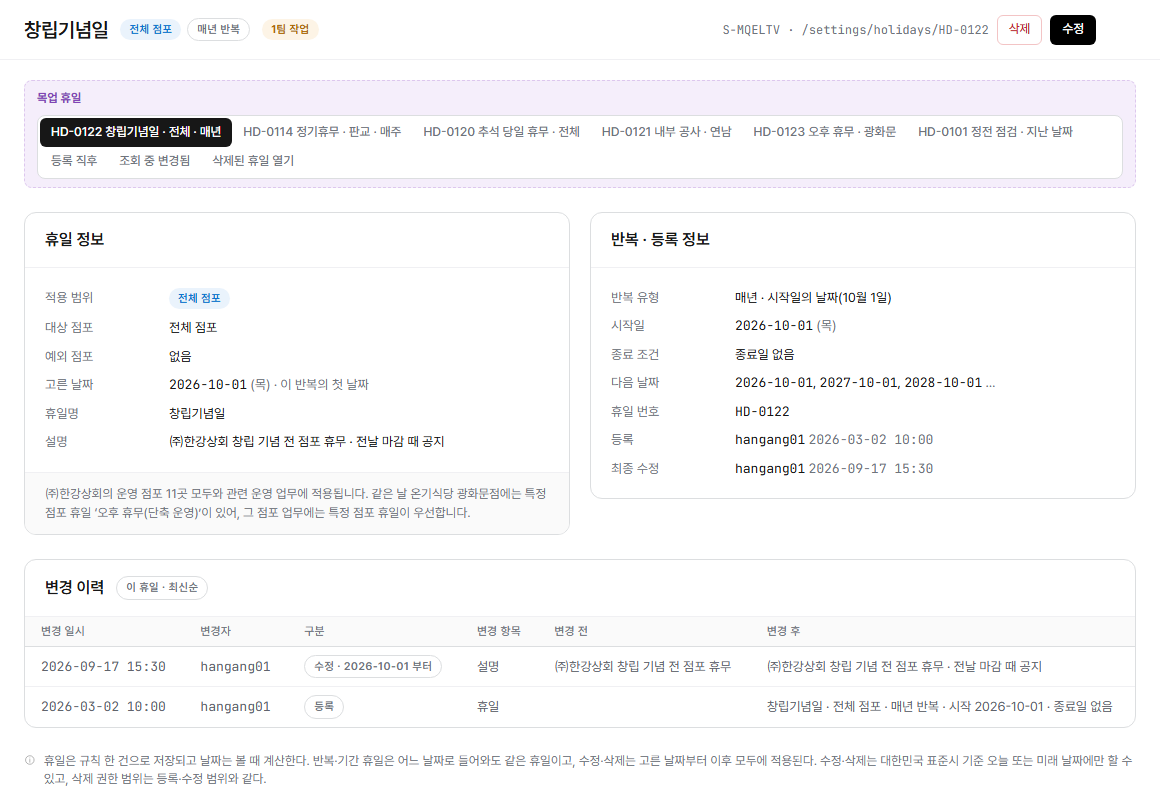
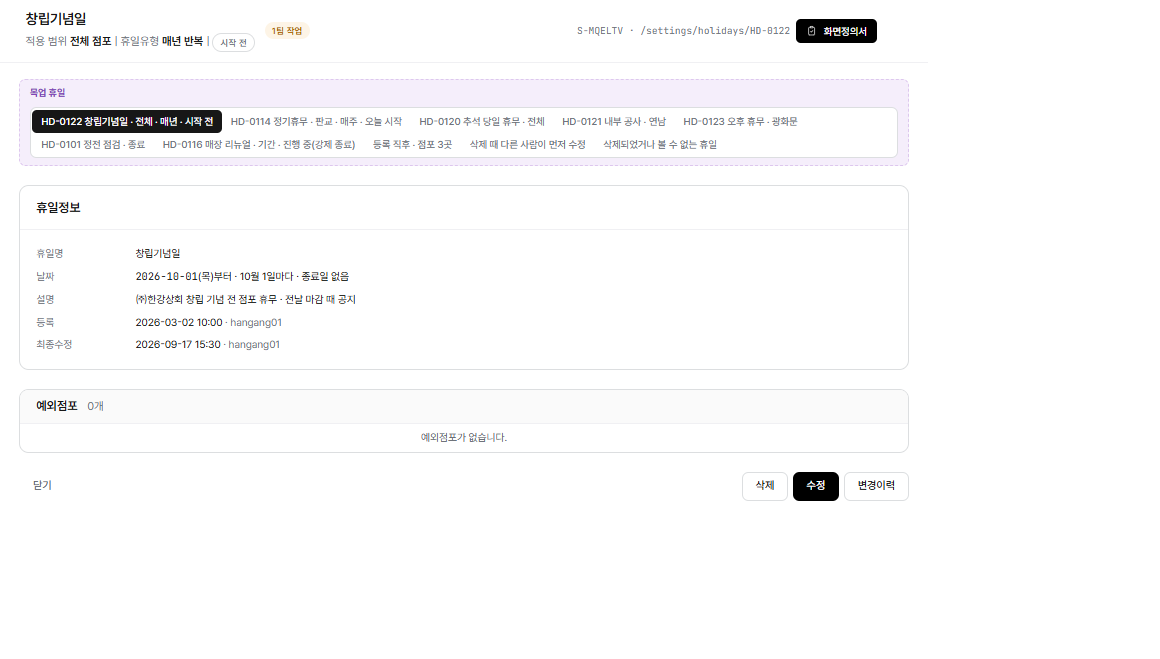
docs: BP 휴일 화면정의서 그림을 다시 찍고 번호 위치를 맞춤

diff --git a/docs/mockup/config/config-holidays-new.screen-def.html b/docs/mockup/config/config-holidays-new.screen-def.html
@@ -49,17 +49,17 @@
   "screenPath": "BP 환경설정 > BP 휴일 관리 > 등록",
   "purpose": "# 화면 목적 및 기능 — 페이지 제목 줄의 [등록]으로 목록 위에 여는 슬라이드 패널. 휴일정보(휴일명 → 날짜(하루/기간/반복 — 반복이면 날짜 바로 아래 회색 상자에서 반복 유형·종료 조건) → 설명)와 적용 대상(적용 범위 → 대상 또는 예외 점포)을 받아 BP 휴일을 규칙 한 건으로 등록한다. 기간과 반복은 함께 쓰지 않고, 휴일은 종일만 지원하며 지난 날짜는 등록할 수 없다 (코드대로, 2026-10-30)",
   "items": [
-    { "x": 1019, "y": 29, "title": "닫기", "desc": "정의: 맨 아래 가운데 [닫기] [저장](위 구분선 없음) — 저장하지 않고 등록 패널을 닫는다 (코드대로, 2026-10-30)" },
-    { "x": 1073, "y": 29, "title": "저장", "desc": "정의: 칸 검사 → 겹침 확인 → 저장. 저장하면 패널을 닫고 토스트 '저장되었습니다.' 뒤 새 휴일의 상세(시작일 기준)를 연다\n실패하면 휴일은 만들어지지 않고 위 실패 띠(api 문장 + '입력한 내용은 그대로 두었습니다.'), 입력 내용은 화면에 남는다\n같은 점포에 날짜가 겹치는 휴일이 이미 있어도 등록은 막지 않고 확인창 '같은 날 등록된 휴일이 있습니다.' · '저장하면 겹치는 휴일이 모두 적용됩니다. 저장하시겠습니까?' + 점포 · 날짜(2026-10-30(금)) · 이미 등록된 휴일 표(앞 10일, 나머지는 '외 N일'), 확인 버튼 [저장]\n접근 범위 밖 점포를 고르고 저장하면 api 가 거절해 같은 실패 띠로 보인다 — 'api 문장(예: 맡지 않은 점포는 다룰 수 없습니다.)' + '입력한 내용은 그대로 두었습니다.', 칸 아래 문구는 없다\n칸 오류는 칸 아래 문구로만 알린다 — 위쪽 요약 띠는 없다(2026-10-30 재영)\n전체 점포 휴일에서 예외 점포로 모든 점포를 빼도 저장된다(막지 않음, 안내 없음). 기간 길이 · 날짜 수에 상한은 없다\n탈퇴 · 미사용 BP 에서는 위에 'BP가 탈퇴 또는 미사용 상태로, 휴일을 등록할 수 없습니다.' 띠를 두고 [저장]을 막는다 (코드대로, 2026-10-30)" },
-    { "x": 309, "y": 383, "title": "적용 범위 · 전체 점포", "desc": "정의: 선택 상자(칸 이름 없이 '적용 대상' 묶음 안). BP의 모든 점포에 적용, 예외 점포를 뺄 수 있음\n전체 점포 휴일과 예외 점포는 BP 마스터·전체 점포 범위 BP 관리자·플랫폼 사용자만 다룬다 — 가맹 마스터·가맹 관리자에게는 '전체 점포' 선택지가 없고 칸이 막혀 일부 점포로 고정. 일부 점포 BP 관리자에게는 선택지가 보이지만 저장하면 api 가 막는다(로그인 정보에 관리 범위가 없다) (코드대로, 2026-10-30)" },
-    { "x": 852, "y": 383, "title": "적용 범위 · 일부 점포", "desc": "정의: 고른 점포에만 적용, 여러 곳을 한 휴일로 묶을 수 있음(전체 점포를 고를 수 없는 사람의 시작값)\n선택지는 등록하는 사람의 접근 범위 안 운영 점포뿐 (코드대로, 2026-10-30)" },
-    { "x": 594, "y": 581, "title": "관리할 점포 찾기", "desc": "정의: 필수, 점포명 또는 점포코드로 검색해 추가하는 입력란 '점포 찾기'(낭독 이름 '관리할 점포 찾기', 예외는 '예외로 뺄 점포 찾기') + [일괄 검색](점포 일괄 검색 창, 예외는 왼쪽 '적용 점포' · 오른쪽 '예외점포'). 칸 이름 '대상점포 *' 옆에 ' · 휴일을 적용할 점포를 선택해 주세요.'(전체 점포면 '예외점포' · ' · 휴일을 적용하지 않을 점포를 선택해 주세요.')\n대상 점포를 한 곳도 안 고르면 \"대상점포를 1개 이상 선택해 주세요.\" (코드대로, 2026-10-30)" },
-    { "x": 594, "y": 665, "title": "선택한 점포 목록", "desc": "정의: 고른 대상(또는 예외) 점포 칩과 개수, [전체 제거] 버튼\n비어 있으면 대상은 '선택된 점포가 없습니다. / 점포찾기에서 점포를 검색하여 추가해 주세요.', 예외는 '선택된 예외점포가 없습니다. / 모든 점포에 휴일이 적용됩니다.'\n고른 점포는 모두 이 휴일 한 건에 묶인다 (코드대로, 2026-10-30)" },
-    { "x": 100, "y": 902, "title": "날짜 방식", "desc": "정의: 칸 이름 '날짜 *' 아래 라디오 하루 · 기간 · 반복(기본값 하루). 기간이면 시작일 ~ 종료일 두 칸\n반복을 고를 때만 날짜 바로 아래(설명 위) 회색 상자에 반복 칸이 열린다 — 기간과 반복은 함께 쓰지 않음\n기간 일수 · 첫 날짜 · 다음 날짜 · 마지막 날짜 같은 미리보기 띠는 없다(2026-10-30 재영) (코드대로, 2026-10-30)" },
-    { "x": 135, "y": 948, "title": "날짜 값", "desc": "정의: 필수, 오늘 또는 그 뒤 날짜만 가능(대한민국 표준시 기준). 처음 값은 캘린더에서 고른 날짜(오늘 이후일 때), 아니면 오늘\n지난 날짜를 넣고 저장하면 \"오늘 이후 날짜를 선택해 주세요.\"(기간의 종료일이 빠르면 \"종료일이 시작일보다 빠릅니다.\"). 날짜는 2100-12-31 까지 (코드대로, 2026-10-30)" },
-    { "x": 852, "y": 905, "title": "휴일명", "desc": "정의: 필수, 최대 30자\n캘린더 오른쪽 그날 줄의 첫 줄에 휴일명으로 표시된다 (코드대로, 2026-10-30)" },
-    { "x": 580, "y": 1057, "title": "설명", "desc": "정의: 선택 입력, 최대 500자. 휴일명과 같은 한 줄 높이 칸(앱 2026-10-30)" },
-    { "x": 216, "y": 1297, "title": "반복유형", "desc": "정의: 매일 · 매주 · 매월 · 매년 중 선택(처음 값 매주), 공통코드(휴일 반복 유형)에서 읽어 채움\n반복 기준은 시작일의 요일·날짜, 종료 조건은 종료일 없음·특정 날짜까지·지정 횟수만큼 중 하나\n칸 이름 옆에 짙은 회색 꼬리표로 기준을 보인다 — '매주 수요일마다 반복'(매일은 없음). 지정 횟수 칸은 100px\n그 날짜가 없는 달·해는 '31일이 없는 달에는 휴일이 적용되지 않으며, 반복 횟수에도 포함되지 않습니다.'(매년 2월 29일은 '2월 29일이 없는 해에는 …') 한 문장으로 알리며, 지정 횟수는 실제로 생긴 날만 센다\n만들어지는 날짜 수에 상한은 없다 (코드대로, 2026-10-30)" }
+    { "x": 75, "y": 238, "title": "휴일명", "desc": "정의: 필수, 최대 30자\n캘린더 오른쪽 그날 줄의 첫 줄에 휴일명으로 표시된다 (코드대로, 2026-10-30)" },
+    { "x": 90, "y": 336, "title": "날짜 방식", "desc": "정의: 칸 이름 '날짜 *' 아래 라디오 하루 · 기간 · 반복(기본값 하루). 기간이면 시작일 ~ 종료일 두 칸\n반복을 고를 때만 날짜 바로 아래(설명 위) 회색 상자에 반복 칸이 열린다 — 기간과 반복은 함께 쓰지 않음\n기간 일수 · 첫 날짜 · 다음 날짜 · 마지막 날짜 같은 미리보기 띠는 없다(2026-10-30 재영) (코드대로, 2026-10-30)" },
+    { "x": 150, "y": 336, "title": "반복유형", "desc": "정의: 매일 · 매주 · 매월 · 매년 중 선택(처음 값 매주), 공통코드(휴일 반복 유형)에서 읽어 채움\n반복 기준은 시작일의 요일·날짜, 종료 조건은 종료일 없음·특정 날짜까지·지정 횟수만큼 중 하나\n칸 이름 옆에 짙은 회색 꼬리표로 기준을 보인다 — '매주 수요일마다 반복'(매일은 없음). 지정 횟수 칸은 100px\n그 날짜가 없는 달·해는 '31일이 없는 달에는 휴일이 적용되지 않으며, 반복 횟수에도 포함되지 않습니다.'(매년 2월 29일은 '2월 29일이 없는 해에는 …') 한 문장으로 알리며, 지정 횟수는 실제로 생긴 날만 센다\n만들어지는 날짜 수에 상한은 없다 (코드대로, 2026-10-30)" },
+    { "x": 110, "y": 373, "title": "날짜 값", "desc": "정의: 필수, 오늘 또는 그 뒤 날짜만 가능(대한민국 표준시 기준). 처음 값은 캘린더에서 고른 날짜(오늘 이후일 때), 아니면 오늘\n지난 날짜를 넣고 저장하면 \"오늘 이후 날짜를 선택해 주세요.\"(기간의 종료일이 빠르면 \"종료일이 시작일보다 빠릅니다.\"). 날짜는 2100-12-31 까지 (코드대로, 2026-10-30)" },
+    { "x": 70, "y": 412, "title": "설명", "desc": "정의: 선택 입력, 최대 500자. 휴일명과 같은 한 줄 높이 칸(앱 2026-10-30)" },
+    { "x": 90, "y": 571, "title": "적용 범위 · 전체 점포", "desc": "정의: 선택 상자(칸 이름 없이 '적용 대상' 묶음 안). BP의 모든 점포에 적용, 예외 점포를 뺄 수 있음\n전체 점포 휴일과 예외 점포는 BP 마스터·전체 점포 범위 BP 관리자·플랫폼 사용자만 다룬다 — 가맹 마스터·가맹 관리자에게는 '전체 점포' 선택지가 없고 칸이 막혀 일부 점포로 고정. 일부 점포 BP 관리자에게는 선택지가 보이지만 저장하면 api 가 막는다(로그인 정보에 관리 범위가 없다) (코드대로, 2026-10-30)" },
+    { "x": 200, "y": 571, "title": "적용 범위 · 일부 점포", "desc": "정의: 고른 점포에만 적용, 여러 곳을 한 휴일로 묶을 수 있음(전체 점포를 고를 수 없는 사람의 시작값)\n선택지는 등록하는 사람의 접근 범위 안 운영 점포뿐 (코드대로, 2026-10-30)" },
+    { "x": 90, "y": 635, "title": "관리할 점포 찾기", "desc": "정의: 필수, 점포명 또는 점포코드로 검색해 추가하는 입력란 '점포 찾기'(낭독 이름 '관리할 점포 찾기', 예외는 '예외로 뺄 점포 찾기') + [일괄 검색](점포 일괄 검색 창, 예외는 왼쪽 '적용 점포' · 오른쪽 '예외점포'). 칸 이름 '대상점포 *' 옆에 ' · 휴일을 적용할 점포를 선택해 주세요.'(전체 점포면 '예외점포' · ' · 휴일을 적용하지 않을 점포를 선택해 주세요.')\n대상 점포를 한 곳도 안 고르면 \"대상점포를 1개 이상 선택해 주세요.\" (코드대로, 2026-10-30)" },
+    { "x": 95, "y": 718, "title": "선택한 점포 목록", "desc": "정의: 고른 대상(또는 예외) 점포 칩과 개수, [전체 제거] 버튼\n비어 있으면 대상은 '선택된 점포가 없습니다. / 점포찾기에서 점포를 검색하여 추가해 주세요.', 예외는 '선택된 예외점포가 없습니다. / 모든 점포에 휴일이 적용됩니다.'\n고른 점포는 모두 이 휴일 한 건에 묶인다 (코드대로, 2026-10-30)" },
+    { "x": 438, "y": 967, "title": "닫기", "desc": "정의: 맨 아래 가운데 [닫기] [저장](위 구분선 없음) — 저장하지 않고 등록 패널을 닫는다 (코드대로, 2026-10-30)" },
+    { "x": 489, "y": 967, "title": "저장", "desc": "정의: 칸 검사 → 겹침 확인 → 저장. 저장하면 패널을 닫고 토스트 '저장되었습니다.' 뒤 새 휴일의 상세(시작일 기준)를 연다\n실패하면 휴일은 만들어지지 않고 위 실패 띠(api 문장 + '입력한 내용은 그대로 두었습니다.'), 입력 내용은 화면에 남는다\n같은 점포에 날짜가 겹치는 휴일이 이미 있어도 등록은 막지 않고 확인창 '같은 날 등록된 휴일이 있습니다.' · '저장하면 겹치는 휴일이 모두 적용됩니다. 저장하시겠습니까?' + 점포 · 날짜(2026-10-30(금)) · 이미 등록된 휴일 표(앞 10일, 나머지는 '외 N일'), 확인 버튼 [저장]\n접근 범위 밖 점포를 고르고 저장하면 api 가 거절해 같은 실패 띠로 보인다 — 'api 문장(예: 맡지 않은 점포는 다룰 수 없습니다.)' + '입력한 내용은 그대로 두었습니다.', 칸 아래 문구는 없다\n칸 오류는 칸 아래 문구로만 알린다 — 위쪽 요약 띠는 없다(2026-10-30 재영)\n전체 점포 휴일에서 예외 점포로 모든 점포를 빼도 저장된다(막지 않음, 안내 없음). 기간 길이 · 날짜 수에 상한은 없다\n탈퇴 · 미사용 BP 에서는 위에 'BP가 탈퇴 또는 미사용 상태로, 휴일을 등록할 수 없습니다.' 띠를 두고 [저장]을 막는다 (코드대로, 2026-10-30)" }
   ]
 }
 </script>

diff --git a/docs/mockup/config/config-holidays-edit.screen-def.html b/docs/mockup/config/config-holidays-edit.screen-def.html
@@ -49,18 +49,18 @@
   "screenPath": "BP 환경설정 > BP 휴일 관리 > 수정",
   "purpose": "# 화면 목적 및 기능 — 상세의 [수정]으로 상세 위에 겹쳐 여는 슬라이드 패널. 휴일정보(휴일명 · 날짜 · 반복 · 설명)와 적용 대상(적용 범위 · 대상 또는 예외 점포)을 고친다. 휴일을 나누지 않고 그 휴일을 고치며, 상태로 고칠 수 있는 칸이 갈린다 — 시작 전은 모든 칸, 진행 중은 휴일명 · 설명 · 점포만, 맡지 않은 점포가 묶인 휴일은 점포만, 끝난 휴일은 고칠 수 없다 (코드대로, 2026-10-30)",
   "items": [
-    { "x": 1019, "y": 29, "title": "닫기", "desc": "정의: 맨 아래 가운데 [닫기] [저장](위 구분선 없음) — 저장하지 않고 수정 패널을 닫아 상세로 돌아간다 (코드대로, 2026-10-30)" },
-    { "x": 1073, "y": 29, "title": "저장", "desc": "정의: 칸 검사 → 겹침 확인 → 저장. 같은 점포 · 같은 날 휴일이 있으면 확인창 '같은 날 등록된 휴일이 있습니다.'를 띄우고 [저장]하면 그대로 저장한다(막지 않음)\n휴일을 나누지 않고 그 휴일을 고친다. 지난 날짜는 바뀌지 않는다. 진행 중 휴일에서 점포를 더하면 오늘부터, 빼면 어제까지다\n저장하면 패널을 닫고 토스트 '수정되었습니다.'\n다른 사람이 먼저 고쳤으면(409) 토스트 '다른 사용자가 먼저 수정했습니다. 최신 정보를 불러왔으니 다시 고쳐 저장해 주세요.'와 함께 최신 값으로 다시 채우고 위에 실패 띠(api 문장)를 둔다 — [최신 정보 불러오기] 버튼은 없다\n그 밖의 실패는 위 실패 띠(api 문장 + '입력한 내용은 그대로 두었습니다.')\n접근 범위 밖 점포를 고르고 저장하면 api 가 거절해 같은 실패 띠로 보인다 — 'api 문장(예: 맡지 않은 점포는 다룰 수 없습니다.)' + '입력한 내용은 그대로 두었습니다.', 칸 아래 문구는 없다\n칸 오류는 칸 아래 문구로만 알린다 — 위쪽 요약 띠는 없다(2026-10-30 재영). 예외점포로 모든 점포를 빼도 저장된다(막지 않음, 안내 없음) (코드대로, 2026-10-30)" },
-    { "x": 309, "y": 383, "title": "적용 범위 · 전체 점포", "desc": "정의: 선택 상자(칸 이름 없이 '적용 대상' 묶음 안). BP의 모든 점포에 적용, 예외 점포를 뺄 수 있음\n전체 점포는 BP 마스터·전체 점포 범위 BP 관리자·플랫폼 사용자만 — 가맹 마스터·가맹 관리자에게는 '전체 점포' 선택지가 없고 칸이 막힌다. 일부 점포 BP 관리자에게는 선택지가 보이지만 저장하면 api 가 막는다(로그인 정보에 관리 범위가 없다)\n진행 중 휴일 · 맡지 않은 점포가 묶인 휴일은 적용 범위를 바꿀 수 없다(칸 막힘) (코드대로, 2026-10-30)" },
-    { "x": 852, "y": 383, "title": "적용 범위 · 일부 점포", "desc": "정의: 고른 점포에만 적용, 여러 곳을 한 휴일로 묶을 수 있음\n칸 이름 '대상점포 *' 옆에 ' · 휴일을 적용할 점포를 선택해 주세요.', 선택지는 수정하는 사람의 접근 범위 안 운영 점포뿐 (코드대로, 2026-10-30)" },
-    { "x": 594, "y": 581, "title": "예외점포 찾기", "desc": "정의: 전체 점포 적용 시, 뺄 점포를 검색해 추가하는 입력란 '점포 찾기'(낭독 이름 '예외로 뺄 점포 찾기') + [일괄 검색](왼쪽 '적용 점포' · 오른쪽 '예외점포'), 접근 범위 안 점포만. 칸 이름 '예외점포' 옆에 ' · 휴일을 적용하지 않을 점포를 선택해 주세요.' (코드대로, 2026-10-30)" },
-    { "x": 594, "y": 678, "title": "예외점포 목록", "desc": "정의: 고른 예외 점포 칩과 개수, [전체 제거] 버튼. 비어 있으면 '선택된 예외점포가 없습니다. / 모든 점포에 휴일이 적용됩니다.'\n고른 점포는 이 휴일의 모든 날짜에서 빠지고, 비워 두면 모든 점포에 적용 (코드대로, 2026-10-30)" },
-    { "x": 135, "y": 933, "title": "날짜", "desc": "정의: 필수. 라디오 하루 · 기간 · 반복 + 날짜 칸(기간이면 시작일 ~ 종료일), 오늘 이후만\n진행 중 휴일은 유형 · 날짜 · 반복 · 적용 범위 칸이 막혀 읽은 값 그대로 보내고 휴일명 · 설명 · 점포만 고친다\n맡지 않은 점포가 함께 묶인 휴일(일부 점포만 맡은 사람)은 점포만 고친다 — 휴일명 · 설명도 막히고, 점포 칸 아래 '맡지 않은 점포 N개(…)는 그대로 둡니다.' (코드대로, 2026-10-30)" },
-    { "x": 852, "y": 933, "title": "휴일명", "desc": "정의: 필수 입력, 최대 30자" },
-    { "x": 580, "y": 1087, "title": "설명", "desc": "정의: 선택 입력, 최대 500자. 휴일명과 같은 한 줄 높이 칸(앱 2026-10-30)" },
-    { "x": 216, "y": 1299, "title": "반복유형", "desc": "정의: 반복을 고를 때만 날짜 바로 아래 회색 상자에 열린다 — 매일 · 매주 · 매월 · 매년 중 선택\n칸 이름 옆에 짙은 회색 꼬리표로 기준을 보인다 — '매년 10월 1일마다 반복' · '매주 월요일마다 반복'(매일은 없음)\n기간과 반복은 함께 쓰지 않는다 (코드대로, 2026-10-30)" },
-    { "x": 150, "y": 1382, "title": "종료조건", "desc": "정의: 종료일 없음 · 특정 날짜까지 · 지정 횟수만큼 중 선택(지정 횟수 칸은 100px)" },
-    { "x": 40, "y": 40, "title": "대상점포", "desc": "정의: 일부 점포 적용 시 고른 대상 점포 칩과 개수, [전체 제거]. 비어 있으면 '선택된 점포가 없습니다. / 점포찾기에서 점포를 검색하여 추가해 주세요.'\n한 곳도 안 고르고 저장하면 '대상점포를 1개 이상 선택해 주세요.' (코드대로, 2026-10-30)" }
+    { "x": 75, "y": 238, "title": "휴일명", "desc": "정의: 필수 입력, 최대 30자" },
+    { "x": 60, "y": 308, "title": "날짜", "desc": "정의: 필수. 라디오 하루 · 기간 · 반복 + 날짜 칸(기간이면 시작일 ~ 종료일), 오늘 이후만\n진행 중 휴일은 유형 · 날짜 · 반복 · 적용 범위 칸이 막혀 읽은 값 그대로 보내고 휴일명 · 설명 · 점포만 고친다\n맡지 않은 점포가 함께 묶인 휴일(일부 점포만 맡은 사람)은 점포만 고친다 — 휴일명 · 설명도 막히고, 점포 칸 아래 '맡지 않은 점포 N개(…)는 그대로 둡니다.' (코드대로, 2026-10-30)" },
+    { "x": 100, "y": 424, "title": "반복유형", "desc": "정의: 반복을 고를 때만 날짜 바로 아래 회색 상자에 열린다 — 매일 · 매주 · 매월 · 매년 중 선택\n칸 이름 옆에 짙은 회색 꼬리표로 기준을 보인다 — '매년 10월 1일마다 반복' · '매주 월요일마다 반복'(매일은 없음)\n기간과 반복은 함께 쓰지 않는다 (코드대로, 2026-10-30)" },
+    { "x": 100, "y": 489, "title": "종료조건", "desc": "정의: 종료일 없음 · 특정 날짜까지 · 지정 횟수만큼 중 선택(지정 횟수 칸은 100px)" },
+    { "x": 70, "y": 565, "title": "설명", "desc": "정의: 선택 입력, 최대 500자. 휴일명과 같은 한 줄 높이 칸(앱 2026-10-30)" },
+    { "x": 90, "y": 724, "title": "적용 범위 · 전체 점포", "desc": "정의: 선택 상자(칸 이름 없이 '적용 대상' 묶음 안). BP의 모든 점포에 적용, 예외 점포를 뺄 수 있음\n전체 점포는 BP 마스터·전체 점포 범위 BP 관리자·플랫폼 사용자만 — 가맹 마스터·가맹 관리자에게는 '전체 점포' 선택지가 없고 칸이 막힌다. 일부 점포 BP 관리자에게는 선택지가 보이지만 저장하면 api 가 막는다(로그인 정보에 관리 범위가 없다)\n진행 중 휴일 · 맡지 않은 점포가 묶인 휴일은 적용 범위를 바꿀 수 없다(칸 막힘) (코드대로, 2026-10-30)" },
+    { "x": 200, "y": 724, "title": "적용 범위 · 일부 점포", "desc": "정의: 고른 점포에만 적용, 여러 곳을 한 휴일로 묶을 수 있음\n칸 이름 '대상점포 *' 옆에 ' · 휴일을 적용할 점포를 선택해 주세요.', 선택지는 수정하는 사람의 접근 범위 안 운영 점포뿐 (코드대로, 2026-10-30)" },
+    { "x": 140, "y": 764, "title": "대상점포", "desc": "정의: 일부 점포 적용 시 고른 대상 점포 칩과 개수, [전체 제거]. 비어 있으면 '선택된 점포가 없습니다. / 점포찾기에서 점포를 검색하여 추가해 주세요.'\n한 곳도 안 고르고 저장하면 '대상점포를 1개 이상 선택해 주세요.' (코드대로, 2026-10-30)" },
+    { "x": 90, "y": 788, "title": "예외점포 찾기", "desc": "정의: 전체 점포 적용 시, 뺄 점포를 검색해 추가하는 입력란 '점포 찾기'(낭독 이름 '예외로 뺄 점포 찾기') + [일괄 검색](왼쪽 '적용 점포' · 오른쪽 '예외점포'), 접근 범위 안 점포만. 칸 이름 '예외점포' 옆에 ' · 휴일을 적용하지 않을 점포를 선택해 주세요.' (코드대로, 2026-10-30)" },
+    { "x": 95, "y": 869, "title": "예외점포 목록", "desc": "정의: 고른 예외 점포 칩과 개수, [전체 제거] 버튼. 비어 있으면 '선택된 예외점포가 없습니다. / 모든 점포에 휴일이 적용됩니다.'\n고른 점포는 이 휴일의 모든 날짜에서 빠지고, 비워 두면 모든 점포에 적용 (코드대로, 2026-10-30)" },
+    { "x": 438, "y": 1115, "title": "닫기", "desc": "정의: 맨 아래 가운데 [닫기] [저장](위 구분선 없음) — 저장하지 않고 수정 패널을 닫아 상세로 돌아간다 (코드대로, 2026-10-30)" },
+    { "x": 489, "y": 1115, "title": "저장", "desc": "정의: 칸 검사 → 겹침 확인 → 저장. 같은 점포 · 같은 날 휴일이 있으면 확인창 '같은 날 등록된 휴일이 있습니다.'를 띄우고 [저장]하면 그대로 저장한다(막지 않음)\n휴일을 나누지 않고 그 휴일을 고친다. 지난 날짜는 바뀌지 않는다. 진행 중 휴일에서 점포를 더하면 오늘부터, 빼면 어제까지다\n저장하면 패널을 닫고 토스트 '수정되었습니다.'\n다른 사람이 먼저 고쳤으면(409) 토스트 '다른 사용자가 먼저 수정했습니다. 최신 정보를 불러왔으니 다시 고쳐 저장해 주세요.'와 함께 최신 값으로 다시 채우고 위에 실패 띠(api 문장)를 둔다 — [최신 정보 불러오기] 버튼은 없다\n그 밖의 실패는 위 실패 띠(api 문장 + '입력한 내용은 그대로 두었습니다.')\n접근 범위 밖 점포를 고르고 저장하면 api 가 거절해 같은 실패 띠로 보인다 — 'api 문장(예: 맡지 않은 점포는 다룰 수 없습니다.)' + '입력한 내용은 그대로 두었습니다.', 칸 아래 문구는 없다\n칸 오류는 칸 아래 문구로만 알린다 — 위쪽 요약 띠는 없다(2026-10-30 재영). 예외점포로 모든 점포를 빼도 저장된다(막지 않음, 안내 없음) (코드대로, 2026-10-30)" }
   ]
 }
 </script>

diff --git a/docs/mockup/config/config-holidays.screen-def.html b/docs/mockup/config/config-holidays.screen-def.html
@@ -49,16 +49,16 @@
   "screenPath": "BP 환경설정 > BP 휴일 관리 > 목록(캘린더)",
   "purpose": "# 화면 목적 및 기능 — 보는 사람의 접근 범위 안 점포(BP 마스터·BP 관리자는 소속 BP 전체 또는 매핑 점포, 가맹 마스터·가맹 관리자는 매핑 점포)의 휴일을 월 단위 캘린더 또는 목록으로 조회하고, 등록·상세·수정은 팝업으로 처리하는 화면. 플랫폼 공식 휴일은 캘린더 표시용일 뿐 BP 휴일 데이터가 아니다",
   "items": [
-    { "x": 68, "y": 343, "title": "오늘 · 날짜", "desc": "정의: 오늘이 속한 달로 돌아가는 버튼. 글자에 오늘 날짜를 함께 적는다 — 「오늘 · 2026-09-21(월)」, 날짜는 작고 흐리게\n달 이동 줄([2026년 9월 ●] ‹ › [오늘 · 날짜])은 캘린더 · 목록 제목 자리에 있다(앱 2026-10-30)" },
-    { "x": 137, "y": 343, "title": "이전달 · 다음달", "desc": "정의: 한 달씩 이동하는 흰 테두리 네모 버튼(짙은 화살표), 캘린더·목록 모두 고른 달 기준으로 다시 그려짐" },
-    { "x": 230, "y": 343, "title": "연 · 월 고르기", "desc": "정의: 「2026년 9월 ●」 — 테두리 상자에 달 제목과 작은 둥근 화살표, 누르면 연 · 월 고르기 판이 뜬다(2000년~2100년)\n전엔 연도 · 월 선택 드롭다운 둘과 「2026년 9월」 제목 줄이 따로 있었다(앱 2026-10-30)" },
-    { "x": 323, "y": 343, "title": "공식 휴일 숨기기", "desc": "정의: 캘린더의 빨간 공식 휴일 표시를 끄는 체크박스. 조작이라 범례와 떼어 달 이동 줄 끝에 둔다(앱 2026-10-30)" },
-    { "x": 1057, "y": 343, "title": "캘린더 · 목록 탭", "desc": "정의: 같은 달의 BP 휴일을 캘린더 또는 표로 바꿔 보는 탭(화면 맨 위, 그 줄 오른쪽에 [변경이력])\n[목록 보기] 표 위에 달 이동 줄([2026년 9월 ●] ‹ › [오늘 · 날짜])과 'BP 휴일 N건'\n표 컬럼: 날짜(요일, 가운데) · 휴일명 · 휴일유형(하루 · 기간 · 매일 반복 · 매주 반복 · 매월 반복 · 매년 반복 — 앱 표기 그대로 짧게, 2026-10-30 재영) · 적용범위(꼬리표) · 대상점포(일부 점포면 점포명, 여러 개면 '첫 점포명 외 N개' — 그날 적용되는 점포를 맡은 범위와 관계없이 모두 센다(고치는 것만 맡은 점포로 제한, 2026-10-30 재영), 아니면 '-') · 예외점포(전체 점포면 'N개', 없으면 '-') · 최종수정('일시 · 사람', 사람은 회색)\n지난 날짜 줄은 날짜를 흐린 글자로만 보인다 — '지난 날짜' · '조회만' 꼬리표는 없다(2026-10-30 재영)\n정렬은 날짜순, 같은 날짜면 전체 점포 먼저 그다음 등록 순서\n그 달 줄을 모두 보이고 쪽 이동은 없다. 빈 달은 '이 달에 등록된 BP 휴일이 없습니다.'\n휴일명을 누르면 상세 패널, 플랫폼 공식 휴일은 목록에 넣지 않음 (코드대로, 2026-10-30)" },
-    { "x": 1196, "y": 343, "title": "변경이력", "desc": "정의: 탭 줄 오른쪽 [변경이력] — 고른 기간(이력이 생긴 날 기준, 기본 이달 1일~오늘)의 등록 · 수정 · 강제 종료 · 삭제 이력을 표로 보이는 팝업\n기간 두 칸 + [조회], 표 열은 변경일시 · 변경자 · 휴일명 · 항목 · 변경 전 · 변경 후, 아래에 쪽 이동, 없으면 '변경이력이 없습니다.'\n삭제된 휴일은 여기서만 조회 가능. 표 위 안내문은 없다 (코드대로, 2026-10-30)" },
-    { "x": 1308, "y": 343, "title": "휴일 등록", "desc": "정의: 페이지 제목 줄 오른쪽 [등록] — 등록 패널을 목록 위로 연다(1팀 목록과 같은 자리)\n등록 권한이 있는 사람(BP 마스터·BP 관리자·가맹 마스터·가맹 관리자·플랫폼 사용자)에게만 보이고, 조회만 권한은 버튼이 없음 (코드대로, 2026-10-30)" },
-    { "x": 650, "y": 430, "title": "캘린더 범례", "desc": "정의: BP 휴일 · 공식 휴일(플랫폼 공식 휴일, 날짜만 빨갛게 표시) 둘. 「선택한 날짜 · 오늘」 범례는 뺐다 — 오늘 날짜는 [오늘] 버튼에 있다(앱 2026-10-30)" },
-    { "x": 225, "y": 560, "title": "월간 캘린더", "desc": "정의: 고른 달의 날짜 그리드, BP 휴일이 있는 날짜 칸에 휴일 이름을 파란 칸으로 적는다(넘치면 말줄임, 여러 건이면 칸이 아래로 늘어난다)\n날짜를 누르면 그 칸을 고른 칸으로 표시하고 오른쪽 패널에 그날의 BP 휴일이 선다\n'지난 날짜' · '조회만' 꼬리표는 없다 — 고칠 수 있는지는 상세의 버튼으로 갈린다(2026-10-30 재영)\n폐점한 점포만 대상이던 휴일은 폐점일 다음 날부터 캘린더·목록에서 감춤\n10월 1일처럼 전체 점포 휴일과 특정 점포 휴일이 같은 날 겹칠 수 있다 (코드대로, 2026-10-30)" },
-    { "x": 1150, "y": 430, "title": "날짜별 휴일 패널", "desc": "정의: 캘린더에서 고른 날짜의 제목 'M월 D일 (요일)' · 'N건'과 그날 BP 휴일 줄\n줄은 적용 범위 꼬리표 + 첫 줄 휴일명 / 둘째 줄 '휴일유형 · 대상'(전체 점포는 BP 상호, 예외가 있으면 ' · 예외 N개'. 일부 점포는 점포명, 여러 곳이면 '첫 점포명 외 N개' — 목록과 같이 그날 적용되는 점포를 모두 센다). 휴일 번호는 없다\n공식 휴일 안내 줄은 없다(공식 휴일은 캘린더 빨간 날짜로만)\n항목을 누르면 상세 패널, 그날 휴일이 없으면 '등록된 휴일이 없습니다.' (코드대로, 2026-10-30)" }
+    { "x": 1245, "y": 29, "title": "휴일 등록", "desc": "정의: 페이지 제목 줄 오른쪽 [등록] — 등록 패널을 목록 위로 연다(1팀 목록과 같은 자리)\n등록 권한이 있는 사람(BP 마스터·BP 관리자·가맹 마스터·가맹 관리자·플랫폼 사용자)에게만 보이고, 조회만 권한은 버튼이 없음 (코드대로, 2026-10-30)" },
+    { "x": 85, "y": 239, "title": "캘린더 · 목록 탭", "desc": "정의: 같은 달의 BP 휴일을 캘린더 또는 표로 바꿔 보는 탭(화면 맨 위, 그 줄 오른쪽에 [변경이력])\n[목록 보기] 표 위에 달 이동 줄([2026년 9월 ●] ‹ › [오늘 · 날짜])과 'BP 휴일 N건'\n표 컬럼: 날짜(요일, 가운데) · 휴일명 · 휴일유형(하루 · 기간 · 매일 반복 · 매주 반복 · 매월 반복 · 매년 반복 — 앱 표기 그대로 짧게, 2026-10-30 재영) · 적용범위(꼬리표) · 대상점포(일부 점포면 점포명, 여러 개면 '첫 점포명 외 N개' — 그날 적용되는 점포를 맡은 범위와 관계없이 모두 센다(고치는 것만 맡은 점포로 제한, 2026-10-30 재영), 아니면 '-') · 예외점포(전체 점포면 'N개', 없으면 '-') · 최종수정('일시 · 사람', 사람은 회색)\n지난 날짜 줄은 날짜를 흐린 글자로만 보인다 — '지난 날짜' · '조회만' 꼬리표는 없다(2026-10-30 재영)\n정렬은 날짜순, 같은 날짜면 전체 점포 먼저 그다음 등록 순서\n그 달 줄을 모두 보이고 쪽 이동은 없다. 빈 달은 '이 달에 등록된 BP 휴일이 없습니다.'\n휴일명을 누르면 상세 패널, 플랫폼 공식 휴일은 목록에 넣지 않음 (코드대로, 2026-10-30)" },
+    { "x": 1310, "y": 246, "title": "변경이력", "desc": "정의: 탭 줄 오른쪽 [변경이력] — 고른 기간(이력이 생긴 날 기준, 기본 이달 1일~오늘)의 등록 · 수정 · 강제 종료 · 삭제 이력을 표로 보이는 팝업\n기간 두 칸 + [조회], 표 열은 변경일시 · 변경자 · 휴일명 · 항목 · 변경 전 · 변경 후, 아래에 쪽 이동, 없으면 '변경이력이 없습니다.'\n삭제된 휴일은 여기서만 조회 가능. 표 위 안내문은 없다 (코드대로, 2026-10-30)" },
+    { "x": 105, "y": 333, "title": "연 · 월 고르기", "desc": "정의: 「2026년 9월 ●」 — 테두리 상자에 달 제목과 작은 둥근 화살표, 누르면 연 · 월 고르기 판이 뜬다(2000년~2100년)\n전엔 연도 · 월 선택 드롭다운 둘과 「2026년 9월」 제목 줄이 따로 있었다(앱 2026-10-30)" },
+    { "x": 205, "y": 333, "title": "이전달 · 다음달", "desc": "정의: 한 달씩 이동하는 흰 테두리 네모 버튼(짙은 화살표), 캘린더·목록 모두 고른 달 기준으로 다시 그려짐" },
+    { "x": 323, "y": 333, "title": "오늘 · 날짜", "desc": "정의: 오늘이 속한 달로 돌아가는 버튼. 글자에 오늘 날짜를 함께 적는다 — 「오늘 · 2026-09-21(월)」, 날짜는 작고 흐리게\n달 이동 줄([2026년 9월 ●] ‹ › [오늘 · 날짜])은 캘린더 · 목록 제목 자리에 있다(앱 2026-10-30)" },
+    { "x": 470, "y": 333, "title": "공식 휴일 숨기기", "desc": "정의: 캘린더의 빨간 공식 휴일 표시를 끄는 체크박스. 조작이라 범례와 떼어 달 이동 줄 끝에 둔다(앱 2026-10-30)" },
+    { "x": 820, "y": 333, "title": "캘린더 범례", "desc": "정의: BP 휴일 · 공식 휴일(플랫폼 공식 휴일, 날짜만 빨갛게 표시) 둘. 「선택한 날짜 · 오늘」 범례는 뺐다 — 오늘 날짜는 [오늘] 버튼에 있다(앱 2026-10-30)" },
+    { "x": 450, "y": 500, "title": "월간 캘린더", "desc": "정의: 고른 달의 날짜 그리드, BP 휴일이 있는 날짜 칸에 휴일 이름을 파란 칸으로 적는다(넘치면 말줄임, 여러 건이면 칸이 아래로 늘어난다)\n날짜를 누르면 그 칸을 고른 칸으로 표시하고 오른쪽 패널에 그날의 BP 휴일이 선다\n'지난 날짜' · '조회만' 꼬리표는 없다 — 고칠 수 있는지는 상세의 버튼으로 갈린다(2026-10-30 재영)\n폐점한 점포만 대상이던 휴일은 폐점일 다음 날부터 캘린더·목록에서 감춤\n10월 1일처럼 전체 점포 휴일과 특정 점포 휴일이 같은 날 겹칠 수 있다 (코드대로, 2026-10-30)" },
+    { "x": 1150, "y": 330, "title": "날짜별 휴일 패널", "desc": "정의: 캘린더에서 고른 날짜의 제목 'M월 D일 (요일)' · 'N건'과 그날 BP 휴일 줄\n줄은 적용 범위 꼬리표 + 첫 줄 휴일명 / 둘째 줄 '휴일유형 · 대상'(전체 점포는 BP 상호, 예외가 있으면 ' · 예외 N개'. 일부 점포는 점포명, 여러 곳이면 '첫 점포명 외 N개' — 목록과 같이 그날 적용되는 점포를 모두 센다). 휴일 번호는 없다\n공식 휴일 안내 줄은 없다(공식 휴일은 캘린더 빨간 날짜로만)\n항목을 누르면 상세 패널, 그날 휴일이 없으면 '등록된 휴일이 없습니다.' (코드대로, 2026-10-30)" }
   ]
 }
 </script>

diff --git a/docs/mockup/config/config-holidays-detail.screen-def.html b/docs/mockup/config/config-holidays-detail.screen-def.html
@@ -50,19 +50,19 @@
   "purpose": "# 화면 목적 및 기능 — 목록·캘린더에서 고른 휴일 규칙 한 건(적용 범위·대상점포/예외점포·날짜·반복)을 읽기 전용으로 보여주는 슬라이드 패널. 상태(시작 전 · 진행 중 · 종료)와 권한에 따라 맨 아래 [삭제] · [강제 종료] · [수정]이 보이고, [변경이력]은 팝업이다. 휴일은 규칙 한 건으로 저장되고 날짜는 조회 시점에 계산한다 (코드대로, 2026-10-30)",
   "items": [
     { "x": 110, "y": 29, "title": "머리(휴일명 · 적용 범위 · 휴일 유형 · 상태)", "desc": "정의: 두 줄 — 첫 줄 휴일명('휴일명' 라벨 없이), 둘째 줄 '적용 범위 전체 점포/일부 점포 | 휴일유형 유형(예: 매주 반복) | 상태 배지(시작 전 · 진행 중 · 종료)'. 머리 줄에는 버튼이 없다\n못 보거나 지운 휴일을 열면 본문 대신 실패 띠 '삭제되었거나 볼 수 없는 휴일입니다.'와 [닫기]만 (코드대로, 2026-10-30)" },
-    { "x": 1019, "y": 29, "title": "삭제", "desc": "정의: 맨 아래 버튼 줄 오른쪽. 시작 전 휴일(지난 날짜가 없는 휴일)만 보이고, 휴일을 나누지 않고 휴일 전체를 지운다\n확인창 제목 '휴일을 삭제하시겠습니까?' — 휴일명 회색 상자 + 빨간 안내 '삭제한 휴일은 변경이력에서 확인할 수 있으며, 복구할 수 없습니다.', 확인 버튼 [삭제]는 기본 모양\n지우면 패널을 닫고 토스트 '삭제되었습니다.'. 그사이 다른 사람이 고쳤으면(409) 실패 띠(api 문장)와 함께 최신 정보를 다시 받는다\n보일지는 api 가 휴일마다 준 동작 가능 여부(메뉴 권한 · 점포 범위 · 상태)로 정한다 — 못 하면 숨김(비활성 버튼은 두지 않는다) (코드대로, 2026-10-30)" },
-    { "x": 1073, "y": 29, "title": "수정", "desc": "정의: 맨 아래 [수정] — 수정 패널을 상세 위에 겹쳐 연다\n시작 전 · 진행 중 휴일에서 휴일 전체나 맡은 점포를 고칠 수 있을 때만 보인다. 끝난 휴일은 숨김(띠 없음, '종료' 배지로 알 수 있다) (코드대로, 2026-10-30)" },
-    { "x": 193, "y": 328, "title": "대상점포", "desc": "정의: 일부 점포 휴일의 대상 점포 표 — 회색 제목 바('대상점포 N개') 아래 열 이름 줄 없이 점포명 · 점포코드(작은 회색 글자) · 적용 기간(끝나지 않았으면 '26.09.21부터')" },
-    { "x": 178, "y": 356, "title": "예외점포", "desc": "정의: 전체 점포 휴일에서 제외한 점포 표 — 제목 바 '예외점포 N개', 줄은 대상점포와 같은 모양, 없으면 '예외점포가 없습니다.'(일부 점포 휴일에는 대상점포 표가 대신 놓임)" },
-    { "x": 270, "y": 385, "title": "날짜", "desc": "정의: 휴일정보 표의 날짜 한 줄 — 하루는 라벨 '날짜' 값 '2026-09-25(금)', 기간은 라벨 '기간' 값 '2026-11-02(월) ~ 2026-11-08(일)', 반복은 라벨 '날짜' 값 '2026-09-21(월)부터 · 월요일마다 · 종료일 없음'(매월은 '매월 30일마다', 매년은 '10월 1일마다', 지정 횟수면 '2회')\n휴일정보 표는 휴일명 · 날짜(기간) · 설명 · 등록 · 최종수정 다섯 줄이다 — 휴일유형 · 시작일 · 반복유형 · 종료조건 · 다음 날짜 · 휴일 번호 줄은 뺐다(앱 2026-10-30)" },
-    { "x": 200, "y": 413, "title": "휴일명", "desc": "정의: 휴일 이름 표시" },
-    { "x": 280, "y": 442, "title": "설명", "desc": "정의: 휴일 설명 텍스트 표시" },
-    { "x": 820, "y": 440, "title": "등록", "desc": "정의: '등록 일시 · 등록자'(사람은 회색), 휴일정보 표의 설명 아래" },
-    { "x": 830, "y": 468, "title": "최종수정", "desc": "정의: '수정 일시 · 수정자'(사람은 회색), 등록 아래. 등록 뒤 고친 적이 없으면 '-' (코드대로, 2026-10-30)" },
-    { "x": 100, "y": 630, "title": "변경이력", "desc": "정의: 맨 아래 맨 오른쪽 [변경이력] — 이 휴일의 이력을 팝업으로 보인다(화면 아래 표는 없다)\n열은 변경일시 · 변경자 · 항목 · 변경 전 · 변경 후, 쪽 이동 없음, 없으면 '변경이력이 없습니다.' (코드대로, 2026-10-30)" },
-    { "x": 40, "y": 40, "title": "닫기", "desc": "정의: 맨 아래 버튼 줄 맨 왼쪽 [닫기] — 상세 패널을 닫는다. 나머지 버튼([삭제] [강제 종료] [수정] [변경이력])은 오른쪽 끝 (코드대로, 2026-10-30)" },
-    { "x": 40, "y": 40, "title": "강제 종료", "desc": "정의: 맨 아래 [강제 종료] — 지난 날짜가 있는 진행 중 휴일을 어제로 끝낸다(오늘 시작한 휴일은 [삭제]만 보인다)\n확인창 제목 '휴일을 강제 종료하시겠습니까?' — 휴일명 · 종료일 'YYYY-MM-DD(어제)' 회색 상자 + 빨간 안내 '오늘부터 이 휴일은 적용되지 않으며, 강제 종료는 되돌릴 수 없습니다.', 확인 버튼 [강제 종료]는 기본 모양\n끝나면 토스트 '강제 종료했습니다. 어제 날짜로 끝났습니다.'와 함께 새 값으로 다시 그린다 (코드대로, 2026-10-30)" },
-    { "x": 40, "y": 40, "title": "막힘 안내 띠", "desc": "정의: 막힌 동작이 있으면 api 가 준 사유 문장을 그대로 회색 띠로 보인다 — 예: '맡지 않은 점포가 함께 묶인 휴일입니다 — 맡은 점포만 빼거나 더할 수 있습니다.' · '전체 점포 휴일은 BP 마스터 · 전체 점포 BP 관리자만 고칠 수 있습니다.'\n끝난 휴일과 오늘 시작한 휴일은 띠를 두지 않는다 (코드대로, 2026-10-30)" }
+    { "x": 40, "y": 176, "title": "막힘 안내 띠", "desc": "정의: 막힌 동작이 있으면 api 가 준 사유 문장을 그대로 회색 띠로 보인다 — 예: '맡지 않은 점포가 함께 묶인 휴일입니다 — 맡은 점포만 빼거나 더할 수 있습니다.' · '전체 점포 휴일은 BP 마스터 · 전체 점포 BP 관리자만 고칠 수 있습니다.'\n끝난 휴일과 오늘 시작한 휴일은 띠를 두지 않는다 (코드대로, 2026-10-30)" },
+    { "x": 95, "y": 253, "title": "휴일명", "desc": "정의: 휴일 이름 표시" },
+    { "x": 90, "y": 276, "title": "날짜", "desc": "정의: 휴일정보 표의 날짜 한 줄 — 하루는 라벨 '날짜' 값 '2026-09-25(금)', 기간은 라벨 '기간' 값 '2026-11-02(월) ~ 2026-11-08(일)', 반복은 라벨 '날짜' 값 '2026-09-21(월)부터 · 월요일마다 · 종료일 없음'(매월은 '매월 30일마다', 매년은 '10월 1일마다', 지정 횟수면 '2회')\n휴일정보 표는 휴일명 · 날짜(기간) · 설명 · 등록 · 최종수정 다섯 줄이다 — 휴일유형 · 시작일 · 반복유형 · 종료조건 · 다음 날짜 · 휴일 번호 줄은 뺐다(앱 2026-10-30)" },
+    { "x": 85, "y": 299, "title": "설명", "desc": "정의: 휴일 설명 텍스트 표시" },
+    { "x": 85, "y": 322, "title": "등록", "desc": "정의: '등록 일시 · 등록자'(사람은 회색), 휴일정보 표의 설명 아래" },
+    { "x": 100, "y": 344, "title": "최종수정", "desc": "정의: '수정 일시 · 수정자'(사람은 회색), 등록 아래. 등록 뒤 고친 적이 없으면 '-' (코드대로, 2026-10-30)" },
+    { "x": 60, "y": 406, "title": "예외점포", "desc": "정의: 전체 점포 휴일에서 제외한 점포 표 — 제목 바 '예외점포 N개', 줄은 대상점포와 같은 모양, 없으면 '예외점포가 없습니다.'(일부 점포 휴일에는 대상점포 표가 대신 놓임)" },
+    { "x": 140, "y": 406, "title": "대상점포", "desc": "정의: 일부 점포 휴일의 대상 점포 표 — 회색 제목 바('대상점포 N개') 아래 열 이름 줄 없이 점포명 · 점포코드(작은 회색 글자) · 적용 기간(끝나지 않았으면 '26.09.21부터')" },
+    { "x": 42, "y": 485, "title": "닫기", "desc": "정의: 맨 아래 버튼 줄 맨 왼쪽 [닫기] — 상세 패널을 닫는다. 나머지 버튼([삭제] [강제 종료] [수정] [변경이력])은 오른쪽 끝 (코드대로, 2026-10-30)" },
+    { "x": 700, "y": 486, "title": "강제 종료", "desc": "정의: 맨 아래 [강제 종료] — 지난 날짜가 있는 진행 중 휴일을 어제로 끝낸다(오늘 시작한 휴일은 [삭제]만 보인다)\n확인창 제목 '휴일을 강제 종료하시겠습니까?' — 휴일명 · 종료일 'YYYY-MM-DD(어제)' 회색 상자 + 빨간 안내 '오늘부터 이 휴일은 적용되지 않으며, 강제 종료는 되돌릴 수 없습니다.', 확인 버튼 [강제 종료]는 기본 모양\n끝나면 토스트 '강제 종료했습니다. 어제 날짜로 끝났습니다.'와 함께 새 값으로 다시 그린다 (코드대로, 2026-10-30)" },
+    { "x": 765, "y": 486, "title": "삭제", "desc": "정의: 맨 아래 버튼 줄 오른쪽. 시작 전 휴일(지난 날짜가 없는 휴일)만 보이고, 휴일을 나누지 않고 휴일 전체를 지운다\n확인창 제목 '휴일을 삭제하시겠습니까?' — 휴일명 회색 상자 + 빨간 안내 '삭제한 휴일은 변경이력에서 확인할 수 있으며, 복구할 수 없습니다.', 확인 버튼 [삭제]는 기본 모양\n지우면 패널을 닫고 토스트 '삭제되었습니다.'. 그사이 다른 사람이 고쳤으면(409) 실패 띠(api 문장)와 함께 최신 정보를 다시 받는다\n보일지는 api 가 휴일마다 준 동작 가능 여부(메뉴 권한 · 점포 범위 · 상태)로 정한다 — 못 하면 숨김(비활성 버튼은 두지 않는다) (코드대로, 2026-10-30)" },
+    { "x": 816, "y": 486, "title": "수정", "desc": "정의: 맨 아래 [수정] — 수정 패널을 상세 위에 겹쳐 연다\n시작 전 · 진행 중 휴일에서 휴일 전체나 맡은 점포를 고칠 수 있을 때만 보인다. 끝난 휴일은 숨김(띠 없음, '종료' 배지로 알 수 있다) (코드대로, 2026-10-30)" },
+    { "x": 866, "y": 486, "title": "변경이력", "desc": "정의: 맨 아래 맨 오른쪽 [변경이력] — 이 휴일의 이력을 팝업으로 보인다(화면 아래 표는 없다)\n열은 변경일시 · 변경자 · 항목 · 변경 전 · 변경 후, 쪽 이동 없음, 없으면 '변경이력이 없습니다.' (코드대로, 2026-10-30)" }
   ]
 }
 </script>
